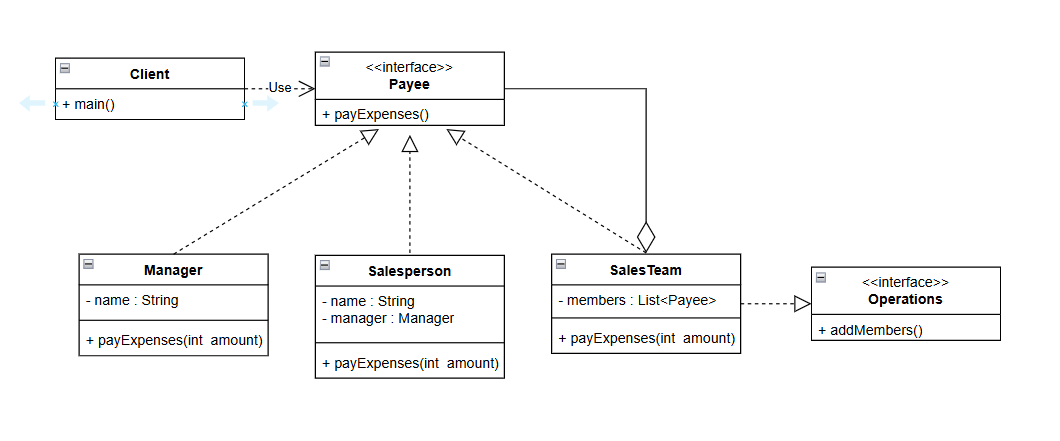
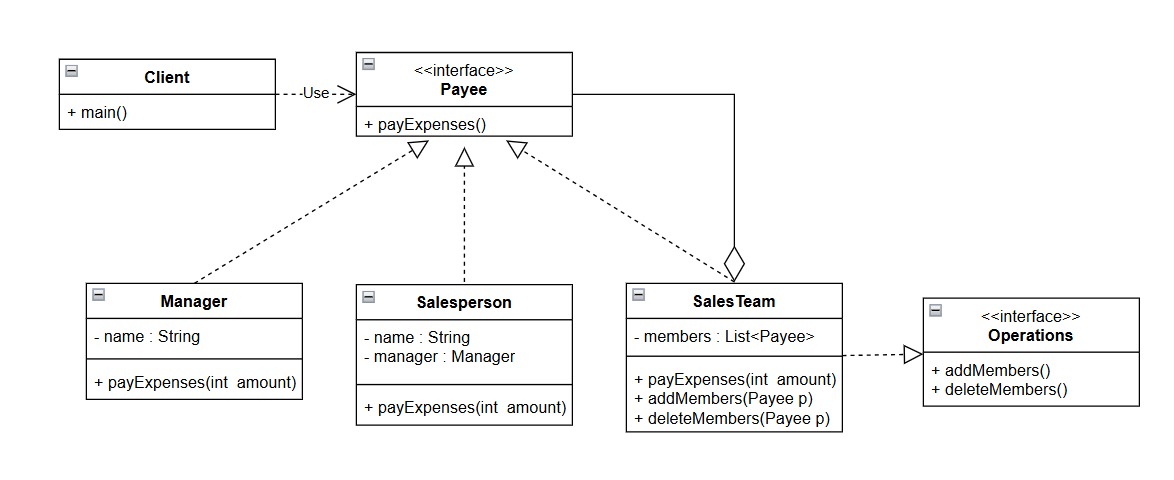
update proxy & composite

diff --git a/src/Proxy2/Client.java b/src/Proxy2/Client.java
@@ -1,0 +1,27 @@
+package Proxy2;
+
+import java.util.ArrayList;
+import java.util.List;
+
+public class Client {
+    public static void main(String[] args) {
+        System.out.println("Init product");
+        List<ProductProxy> product = new ArrayList<>();
+        product.add(new ProductProxy("Bánh ngọt"));
+        product.add(new ProductProxy("Trái cây"));
+        product.add(new ProductProxy("Cá"));
+        product.add(new ProductProxy("Thịt"));
+
+        System.out.println("______________");
+        System.out.println("Load product 1st");
+        for (DisplayObject p : product){
+            p.display();
+        }
+
+        System.out.println("________________");
+        System.out.println("Load product 2st");
+        for (DisplayObject p : product){
+            p.display();
+        }
+    }
+}

diff --git a/src/Proxy2/ProductProxy.java b/src/Proxy2/ProductProxy.java
@@ -1,0 +1,22 @@
+package Proxy2;
+
+public class ProductProxy implements DisplayObject{
+    private String product;
+    private Product warehouse;
+
+    ProductProxy(String product){
+        this.product = product;
+        System.out.println("Unload product" + this.product);
+    }
+
+    @Override
+    public void display() {
+        if(warehouse == null){
+            warehouse = new Product(product);
+        }
+        else {
+            System.out.println("Product already existed: " + product);
+        }
+        warehouse.display();
+    }
+}

diff --git a/src/Proxy2/Product.java b/src/Proxy2/Product.java
@@ -1,0 +1,19 @@
+package Proxy2;
+
+public class Product implements DisplayObject{
+    private String product;
+
+    Product(String product){
+        this.product = product;
+        getProduct();
+    }
+
+    public void getProduct(){
+        System.out.println("Get a product in warehouse: " + product);
+    }
+
+    @Override
+    public void display() {
+        System.out.println("Show product " + product);
+    }
+}

diff --git a/src/Proxy2/DisplayObject.java b/src/Proxy2/DisplayObject.java
@@ -1,0 +1,5 @@
+package Proxy2;
+
+public interface DisplayObject {
+    void display();
+}
